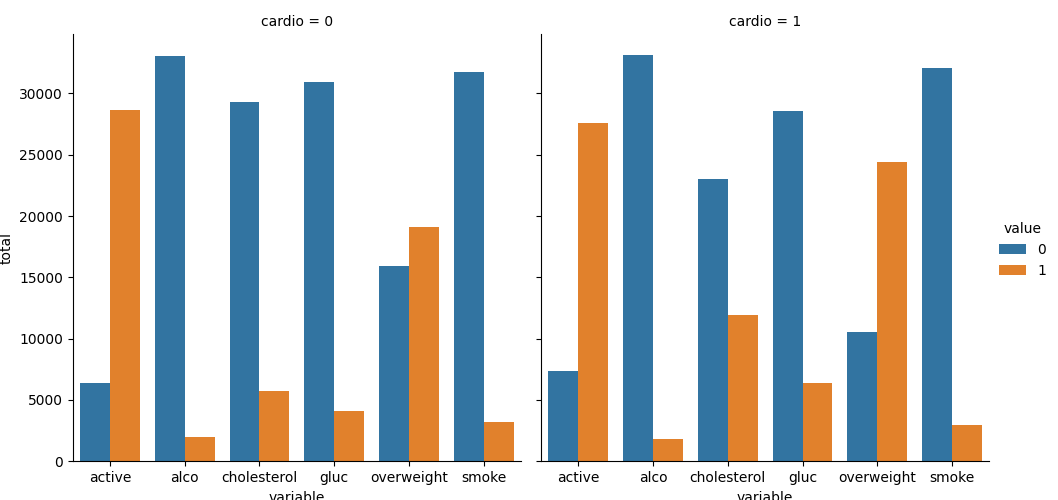
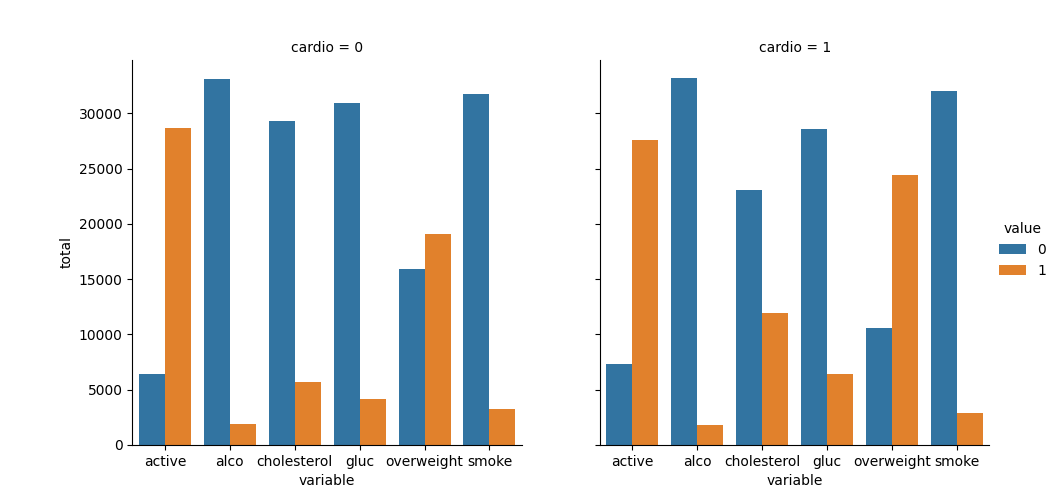
height padding added to catplot

diff --git a/medical_data_visualizer.py b/medical_data_visualizer.py
@@ -128,7 +128,7 @@ def draw_cat_plot():
     # Draw the catplot with 'sns.catplot()'
     # make two bar charts with the two 'cardio' values (0 and 1) and with the 'variable' column as the x axis and the 'total' column as the y axis
     # each 'variable' will have two bars based on the 'value' column (0 and 1)
-    fig = sns.catplot(data=df_cat, col="cardio", x="variable", y="total", hue="value", kind="bar").fig
+    fig = sns.catplot(data=df_cat, col="cardio", x="variable", y="total", hue="value", kind="bar", facet_kws={ 'gridspec_kws': { 'hspace': 0.1 } }).fig
 
 
     # Do not modify the next two lines
